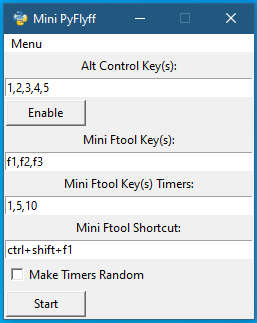
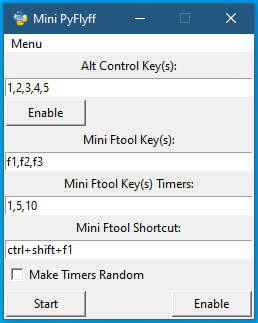
added a button to enable/disable the mini ftool

diff --git a/helpWindow.py b/helpWindow.py
@@ -18,8 +18,11 @@ Mini Ftool loop.
 You can check the box "Make Timers Random" to generate a random
 delay between each key press.
 
-You can start/stop the Mini Ftool loop by clicking the button  to 
-Start/Stop it, or you can setup a shortcut to start/stop it.
+You can start/stop the Mini Ftool loop by clicking the button to 
+Start/Stop it, you also can setup a shortcut.
+
+You can enable/disable the Mini Ftool by clicking the button to
+enable/disable it.
 
 Click the button below to see a picture of a valid Mini PyFlyff 
 configuration:"""
@@ -29,7 +32,7 @@ def open_help():
     help_window = Toplevel()
 
     window_width = 400
-    window_height = 400
+    window_height = 425
 
     screen_width = help_window.winfo_screenwidth()
     screen_height = help_window.winfo_screenheight()
@@ -37,7 +40,7 @@ def open_help():
     x = (screen_width / 2) - (window_width / 2)
     y = (screen_height / 2) - (window_height / 2)
 
-    help_window.geometry("400x400+" + str(int(x)) + "+" + str(int(y)))
+    help_window.geometry("400x425+" + str(int(x)) + "+" + str(int(y)))
 
     help_window.title("Help")
     if os.path.isfile("icon/PyFlyff.ico"):

diff --git a/MiniPyFlyff.py b/MiniPyFlyff.py
@@ -1,4 +1,4 @@
-from tkinter import Tk, Button, Label, Entry, X, LEFT, Frame, Checkbutton, IntVar, Menu, END
+from tkinter import Tk, Button, Label, Entry, X, LEFT, RIGHT, Frame, Checkbutton, IntVar, Menu, END
 import miscs
 import keyboardListener
 import miniFtool
@@ -91,6 +91,11 @@ frame_mini_ftool_buttons.pack(fill=X, padx=1, pady=1)
 button_mini_ftool_start_stop = Button(frame_mini_ftool_buttons, text="Start", width=10)
 button_mini_ftool_start_stop.pack(side=LEFT, padx=1, pady=1)
 button_mini_ftool_start_stop.config(command=lambda: toolControl.start_stop_mini_ftool(button_mini_ftool_start_stop))
+
+button_mini_ftool_enable_disable = Button(frame_mini_ftool_buttons, text="Enable", width=10)
+button_mini_ftool_enable_disable.pack(side=RIGHT, padx=1, pady=1)
+button_mini_ftool_enable_disable.config(
+    command=lambda: toolControl.enable_disable_mini_ftool(button_mini_ftool_enable_disable))
 
 entry_alt_control_keys.insert(END, saveConfigs.open_json_config()[0])
 entry_mini_ftool_key.insert(END, saveConfigs.open_json_config()[1])

diff --git a/toolControl.py b/toolControl.py
@@ -17,3 +17,12 @@ def start_stop_mini_ftool(button):
     else:
         globalVariables.mini_ftool_on = True
         button["text"] = "Stop"
+
+
+def enable_disable_mini_ftool(button):
+    if globalVariables.mini_ftool_enable_disabled:
+        globalVariables.mini_ftool_enable_disabled = False
+        button["text"] = "Enable"
+    else:
+        globalVariables.mini_ftool_enable_disabled = True
+        button["text"] = "Disable"

diff --git a/miniFtool.py b/miniFtool.py
@@ -8,7 +8,7 @@ from tkinter import messagebox
 def mini_ftool(check):
     while True:
         try:
-            if globalVariables.mini_ftool_on:
+            if globalVariables.mini_ftool_on and globalVariables.mini_ftool_enable_disabled:
                 for key, timer in zip(globalVariables.mini_ftool_keys, globalVariables.mini_ftool_key_timers):
                     browserControl.mini_ftool_send_keys(key)
 

diff --git a/globalVariables.py b/globalVariables.py
@@ -1,5 +1,7 @@
 mini_ftool_on = False
 
+mini_ftool_enable_disabled = False
+
 alt_control_on = False
 
 mini_ftool_hotkey = None
